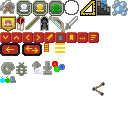
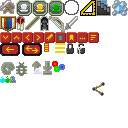
v1.3.0 small visual improvements to HeroSettings

Changed region(s): [[0.5, 0.3125, 0.6875, 0.4375], [0.0, 0.125, 0.125, 0.25]]

diff --git a/core/src/main/java/com/shatteredpixel/shatteredpixeldungeon/editor/levelsettings/dungeon/HeroSettings.java b/core/src/main/java/com/shatteredpixel/shatteredpixeldungeon/editor/levelsettings/dungeon/HeroSettings.java
@@ -1,5 +1,6 @@
 package com.shatteredpixel.shatteredpixeldungeon.editor.levelsettings.dungeon;
 
+import com.shatteredpixel.shatteredpixeldungeon.Chrome;
 import com.shatteredpixel.shatteredpixeldungeon.Dungeon;
 import com.shatteredpixel.shatteredpixeldungeon.GameObject;
 import com.shatteredpixel.shatteredpixeldungeon.actors.Char;
@@ -21,8 +22,11 @@ import com.shatteredpixel.shatteredpixeldungeon.editor.ui.spinner.Spinner;
 import com.shatteredpixel.shatteredpixeldungeon.editor.ui.spinner.SpinnerIntegerModel;
 import com.shatteredpixel.shatteredpixeldungeon.editor.ui.spinner.StyledSpinner;
 import com.shatteredpixel.shatteredpixeldungeon.editor.util.EditorUtilities;
-import com.shatteredpixel.shatteredpixeldungeon.effects.BadgeBanner;
-import com.shatteredpixel.shatteredpixeldungeon.items.*;
+import com.shatteredpixel.shatteredpixeldungeon.items.EnergyCrystal;
+import com.shatteredpixel.shatteredpixeldungeon.items.Gold;
+import com.shatteredpixel.shatteredpixeldungeon.items.Item;
+import com.shatteredpixel.shatteredpixeldungeon.items.KindofMisc;
+import com.shatteredpixel.shatteredpixeldungeon.items.TengusMask;
 import com.shatteredpixel.shatteredpixeldungeon.items.armor.Armor;
 import com.shatteredpixel.shatteredpixeldungeon.items.artifacts.Artifact;
 import com.shatteredpixel.shatteredpixeldungeon.items.rings.Ring;
@@ -31,12 +35,18 @@ import com.shatteredpixel.shatteredpixeldungeon.items.weapon.melee.MeleeWeapon;
 import com.shatteredpixel.shatteredpixeldungeon.messages.Messages;
 import com.shatteredpixel.shatteredpixeldungeon.scenes.PixelScene;
 import com.shatteredpixel.shatteredpixeldungeon.sprites.CharSprite;
+import com.shatteredpixel.shatteredpixeldungeon.sprites.ItemSprite;
 import com.shatteredpixel.shatteredpixeldungeon.sprites.ItemSpriteSheet;
-import com.shatteredpixel.shatteredpixeldungeon.ui.*;
+import com.shatteredpixel.shatteredpixeldungeon.ui.CheckBox;
+import com.shatteredpixel.shatteredpixeldungeon.ui.Icons;
+import com.shatteredpixel.shatteredpixeldungeon.ui.RenderedTextBlock;
+import com.shatteredpixel.shatteredpixeldungeon.ui.StyledButton;
+import com.shatteredpixel.shatteredpixeldungeon.ui.Window;
 import com.shatteredpixel.shatteredpixeldungeon.windows.AbstractWndChooseSubclass;
 import com.shatteredpixel.shatteredpixeldungeon.windows.IconTitle;
 import com.shatteredpixel.shatteredpixeldungeon.windows.WndGameInProgress;
 import com.shatteredpixel.shatteredpixeldungeon.windows.WndHeroInfo;
+import com.shatteredpixel.shatteredpixeldungeon.windows.WndTitledMessage;
 import com.watabou.NotAllowedInLua;
 import com.watabou.noosa.Image;
 import com.watabou.noosa.ui.Component;
@@ -48,8 +58,8 @@ import java.util.ArrayList;
 import java.util.HashSet;
 import java.util.List;
 import java.util.Set;
-@NotAllowedInLua
 
+@NotAllowedInLua
 public class HeroSettings extends Component {
 
     private final OutsideSpSwitchTabs outsideSp;
@@ -133,7 +143,7 @@ public class HeroSettings extends Component {
 
     public static Image createTabIcon(int index) {
         if (index == 0) return Icons.ANY_HERO.get();
-        return BadgeBanner.image(index - 1);
+        return new Image(HeroClass.getFromIndex(index-1).spritesheet(), 0, 90, 12, 15);
     }
 
     public static String getTabName(int index) {
@@ -143,31 +153,53 @@ public class HeroSettings extends Component {
 
     private static class HeroTab extends Component {
 
-        private CheckBox heroEnabled;
-        private RedButton subClassesEnabled;
+        private StyledButton heroEnabled;
+        private StyledButton subClassesEnabled;
         private final ItemContainerWithLabel<Item> startItems;
         private final ItemSelector startWeapon, startArmor, startRing, startArti, startMisc;
         private final ItemSelector sprite;
         private final StyledSpinner plusLvl, plusStr;
         private final PropertyListContainer properties;
 
-        private final Component itemSelectorParent;
-
         public HeroTab(int index) {
 
             if (index >= 1) {
-                heroEnabled = new CheckBox(Messages.get(HeroSettings.class, "unlocked")) {
+                heroEnabled = new StyledButton(Chrome.Type.GREY_BUTTON_TR, "") {
+                    {
+                        checked(Dungeon.customDungeon.heroesEnabled[index - 1]);
+                    }
+                    
                     @Override
+                    protected void onClick() {
+                        checked( !Dungeon.customDungeon.heroesEnabled[index - 1] );
+                    }
+                    
                     public void checked(boolean value) {
-                        super.checked(value);
                         Dungeon.customDungeon.heroesEnabled[index - 1] = value;
+                        if (value) {
+                            text( Messages.get(HeroSettings.class, "unlocked") );
+                            icon( Icons.UNLOCKED.get() );
+                        } else {
+                            text( Messages.get(HeroSettings.class, "locked") );
+                            icon( Icons.LOCKED.get() );
+                        }
+                    }
+                    
+                    @Override
+                    protected void layout() {
+                        height = Math.max(height, getMinimumHeight(width));
+                        super.layout();
+                    }
+                    
+                    @Override
+                    public float getMinimumHeight(float width) {
+                        return Math.max(super.getMinimumHeight(width), WndMenuEditor.BTN_HEIGHT);
                     }
                 };
-                heroEnabled.checked(Dungeon.customDungeon.heroesEnabled[index - 1]);
                 add(heroEnabled);
 
                 final HeroClass heroClass = HeroClass.getFromIndex(index - 1);
-                subClassesEnabled = new RedButton(createSubclassBtnLabel(heroClass)) {
+                subClassesEnabled = new StyledButton(Chrome.Type.GREY_BUTTON_TR, createSubclassBtnLabel(heroClass)) {
                     @Override
                     protected void onClick() {
                         RenderedTextBlock titlebar = PixelScene.renderTextBlock(Messages.titleCase(Messages.get(WndHeroInfo.class, "subclasses")),9);
@@ -189,14 +221,23 @@ public class HeroSettings extends Component {
                         };
                         EditorScene.show(w);
                     }
+                    
+                    @Override
+                    protected void layout() {
+                        height = Math.max(height, getMinimumHeight(width));
+                        super.layout();
+                    }
+                    
+                    @Override
+                    public float getMinimumHeight(float width) {
+                        return Math.max(super.getMinimumHeight(width), WndMenuEditor.BTN_HEIGHT);
+                    }
                 };
-                subClassesEnabled.leftJustify = true;
+                subClassesEnabled.icon(new ItemSprite(ItemSpriteSheet.MASK));
                 add(subClassesEnabled);
             }
 
             HeroStartItemsData data = Dungeon.customDungeon.startItems[index];
-
-            itemSelectorParent = new Component();
 
             startWeapon = new StyledItemSelector(Messages.get(HeroSettings.class, "weapon"), MeleeWeapon.class, data.weapon, ItemSelector.NullTypeSelector.NOTHING) {
                 @Override
@@ -207,7 +248,8 @@ public class HeroSettings extends Component {
                 }
             };
             startWeapon.setShowWhenNull(ItemSpriteSheet.WEAPON_HOLDER);
-            itemSelectorParent.add(startWeapon);
+            add(startWeapon);
+            
             startArmor = new StyledItemSelector(Messages.get(HeroSettings.class, "armor"), Armor.class, data.armor, ItemSelector.NullTypeSelector.NOTHING) {
                 @Override
                 public void setSelectedItem(Item selectedItem) {
@@ -217,7 +259,8 @@ public class HeroSettings extends Component {
                 }
             };
             startArmor.setShowWhenNull(ItemSpriteSheet.ARMOR_HOLDER);
-            itemSelectorParent.add(startArmor);
+            add(startArmor);
+            
             startRing = new StyledItemSelector(Messages.get(HeroSettings.class, "ring"), Ring.class, data.ring, ItemSelector.NullTypeSelector.NOTHING) {
                 @Override
                 public void setSelectedItem(Item selectedItem) {
@@ -227,7 +270,8 @@ public class HeroSettings extends Component {
                 }
             };
             startRing.setShowWhenNull(ItemSpriteSheet.RING_HOLDER);
-            itemSelectorParent.add(startRing);
+            add(startRing);
+            
             startArti = new StyledItemSelector(Messages.get(HeroSettings.class, "artifact"), Artifact.class, data.artifact, ItemSelector.NullTypeSelector.NOTHING) {
                 @Override
                 public void setSelectedItem(Item selectedItem) {
@@ -237,7 +281,8 @@ public class HeroSettings extends Component {
                 }
             };
             startArti.setShowWhenNull(ItemSpriteSheet.ARTIFACT_HOLDER);
-            itemSelectorParent.add(startArti);
+            add(startArti);
+            
             startMisc = new StyledItemSelector(Messages.get(HeroSettings.class, "misc"), KindofMisc.class, data.misc, ItemSelector.NullTypeSelector.NOTHING) {
                 @Override
                 public void setSelectedItem(Item selectedItem) {
@@ -247,7 +292,7 @@ public class HeroSettings extends Component {
                 }
             };
             startMisc.setShowWhenNull(ItemSpriteSheet.SOMETHING);
-            itemSelectorParent.add(startMisc);
+            add(startMisc);
 
             final MobSpriteItem curentSprite = data.spriteClass == null ? null : new MobSpriteItem(data.spriteClass);
             sprite = new StyledItemSelector(Messages.get(HeroSettings.class, "sprite"),
@@ -278,7 +323,7 @@ public class HeroSettings extends Component {
 
                 }
             };
-            itemSelectorParent.add(sprite);
+            add(sprite);
 
 
             plusLvl = new StyledSpinner(new SpinnerIntegerModel(1, 30, 1 + data.plusLvl) {
@@ -291,7 +336,7 @@ public class HeroSettings extends Component {
                 }
             }, Messages.titleCase(Messages.get(HeroSettings.class, "lvl")), 10, EditorUtilities.createSubIcon(ItemSpriteSheet.Icons.POTION_EXP));
             plusLvl.addChangeListener(() -> data.plusLvl = (int) plusLvl.getValue() - 1);
-            itemSelectorParent.add(plusLvl);
+            add(plusLvl);
 
             plusStr = new StyledSpinner(new SpinnerIntegerModel(0, 50, Hero.STARTING_STR + data.plusStr) {
                 @Override
@@ -300,9 +345,7 @@ public class HeroSettings extends Component {
                 }
             }, Messages.titleCase(Messages.get(WndGameInProgress.class, "str")), 10, EditorUtilities.createSubIcon(ItemSpriteSheet.Icons.POTION_STRENGTH));
             plusStr.addChangeListener(() -> data.plusStr = (int) plusStr.getValue() - Hero.STARTING_STR);
-            itemSelectorParent.add(plusStr);
-
-            add(itemSelectorParent);
+            add(plusStr);
 
             startItems = new ItemContainerWithLabel<Item>(data.items, Messages.get(HeroSettings.class, "items")) {
 
@@ -356,35 +399,17 @@ public class HeroSettings extends Component {
         @Override
         protected void layout() {
 
-            int gap = 2;
+            height = 0;
 
-            float posY = y;
+            height = EditorUtilities.layoutStyledCompsInRectangles(WndTitledMessage.GAP, width, 2, this, heroEnabled, subClassesEnabled);
+            height += WndTitledMessage.GAP;
 
-            if (heroEnabled != null) {
-                heroEnabled.setRect(x, posY, width, WndMenuEditor.BTN_HEIGHT);
-                PixelScene.align(heroEnabled);
-                posY = heroEnabled.bottom() + gap;
-            }
-            if (subClassesEnabled != null) {
-                subClassesEnabled.setRect(x, posY, width, WndMenuEditor.BTN_HEIGHT);
-                PixelScene.align(subClassesEnabled);
-                posY = subClassesEnabled.bottom() + gap;
-            }
-            itemSelectorParent.setSize(width, 0);
-            itemSelectorParent.setRect(x, posY, width,  EditorUtilities.layoutStyledCompsInRectangles(gap, width, itemSelectorParent,
-                    new Component[]{startWeapon, startArmor, startRing, startArti, startMisc, sprite, EditorUtilities.PARAGRAPH_INDICATOR_INSTANCE,
-                            plusLvl, plusStr}));
-            PixelScene.align(itemSelectorParent);
-            posY = itemSelectorParent.bottom() + gap;
-            startItems.setRect(x, posY, width, WndMenuEditor.BTN_HEIGHT);
-            PixelScene.align(startItems);
-            posY = startItems.bottom() + gap * 2;
+            height = EditorUtilities.layoutStyledCompsInRectangles(WndTitledMessage.GAP, width, this,
+                    startWeapon, startArmor, startRing, startArti, startMisc, sprite, EditorUtilities.PARAGRAPH_INDICATOR_INSTANCE,
+                            plusLvl, plusStr);
+            height += WndTitledMessage.GAP * 1.5f;
 
-            properties.setRect(x, posY, width, WndMenuEditor.BTN_HEIGHT);
-            PixelScene.align(properties);
-            posY = properties.bottom() + gap;
-
-            height = (posY - y - gap);
+            height = EditorUtilities.layoutCompsLinear(WndTitledMessage.GAP, this, startItems, properties);
         }
     }
 

diff --git a/core/src/main/java/com/shatteredpixel/shatteredpixeldungeon/editor/ui/MultiWindowTabComp.java b/core/src/main/java/com/shatteredpixel/shatteredpixeldungeon/editor/ui/MultiWindowTabComp.java
@@ -8,7 +8,12 @@ import com.shatteredpixel.shatteredpixeldungeon.editor.levelsettings.WndEditorSe
 import com.shatteredpixel.shatteredpixeldungeon.editor.util.EditorUtilities;
 import com.shatteredpixel.shatteredpixeldungeon.messages.Messages;
 import com.shatteredpixel.shatteredpixeldungeon.scenes.PixelScene;
-import com.shatteredpixel.shatteredpixeldungeon.ui.*;
+import com.shatteredpixel.shatteredpixeldungeon.ui.Button;
+import com.shatteredpixel.shatteredpixeldungeon.ui.IconButton;
+import com.shatteredpixel.shatteredpixeldungeon.ui.Icons;
+import com.shatteredpixel.shatteredpixeldungeon.ui.RenderedTextBlock;
+import com.shatteredpixel.shatteredpixeldungeon.ui.ScrollPane;
+import com.shatteredpixel.shatteredpixeldungeon.ui.StyledButton;
 import com.shatteredpixel.shatteredpixeldungeon.windows.WndKeyBindings;
 import com.watabou.input.GameAction;
 import com.watabou.input.KeyBindings;
@@ -213,13 +218,13 @@ public abstract class MultiWindowTabComp extends WndEditorSettings.TabComp {
 
             if (buttonBack != null) buttonBack.setPos(x, posY + (title.height() - buttonBack.height()) * 0.5f);
 
-            posY += Math.max(title.height(), buttonBack.height());
+            posY = Math.max(title.bottom(), buttonBack == null ? 0 : buttonBack.bottom()) + GAP;
 
-            body.setSize(width, -1);
+            body.setSize(width, 0);
 
             float normalSpHeight;
             if (outsideSp != null) {
-                outsideSp.setSize(width, -1);
+                outsideSp.setSize(width, 0);
                 float outsideSpH = outsideSp.height();
                 outsideSp.setPos(x, y + height - outsideSpH);
                 normalSpHeight = height - posY - (outsideSpH == 0 ? 1 : outsideSpH + GAP);

diff --git a/core/src/main/java/com/shatteredpixel/shatteredpixeldungeon/ui/StyledButton.java b/core/src/main/java/com/shatteredpixel/shatteredpixeldungeon/ui/StyledButton.java
@@ -108,6 +108,16 @@ public class StyledButton extends Button {
 
 	}
 	
+	public float getMinimumHeight(float width) {
+		if (icon == null) {
+			if (multiline) text.maxWidth((int) (width - bg.marginHor() - 2));
+			return text.height() + bg.marginVer();
+		} else {
+			if (multiline) text.maxWidth((int) (width - bg.marginHor() - 2 - icon.width() - 2));
+			return Math.max(icon.height(), text.height()) + bg.marginVer();
+		}
+	}
+	
 	@Override
 	protected void onPointerDown() {
 		bg.brightness( 1.2f );

diff --git a/core/src/main/java/com/shatteredpixel/shatteredpixeldungeon/ui/Icons.java b/core/src/main/java/com/shatteredpixel/shatteredpixeldungeon/ui/Icons.java
@@ -69,6 +69,8 @@ public enum Icons {
 	SWAP(true),
 	SCROLL_BAR_THUMB_TOP(true),
 	MENU(true),
+	LOCKED(true),
+	UNLOCKED(true),
 
 	REFRESH(true),
 	BUG(true),
@@ -289,6 +291,12 @@ public enum Icons {
 				break;
 			case MENU:
 				icon.frame(icon.texture.uvRectBySize(55, 43, 10, 10));
+				break;
+			case LOCKED:
+				icon.frame(icon.texture.uvRectBySize(66, 43, 8, 11));
+				break;
+			case UNLOCKED:
+				icon.frame(icon.texture.uvRectBySize(77, 43, 8, 11));
 				break;
 
 			case REFRESH:
